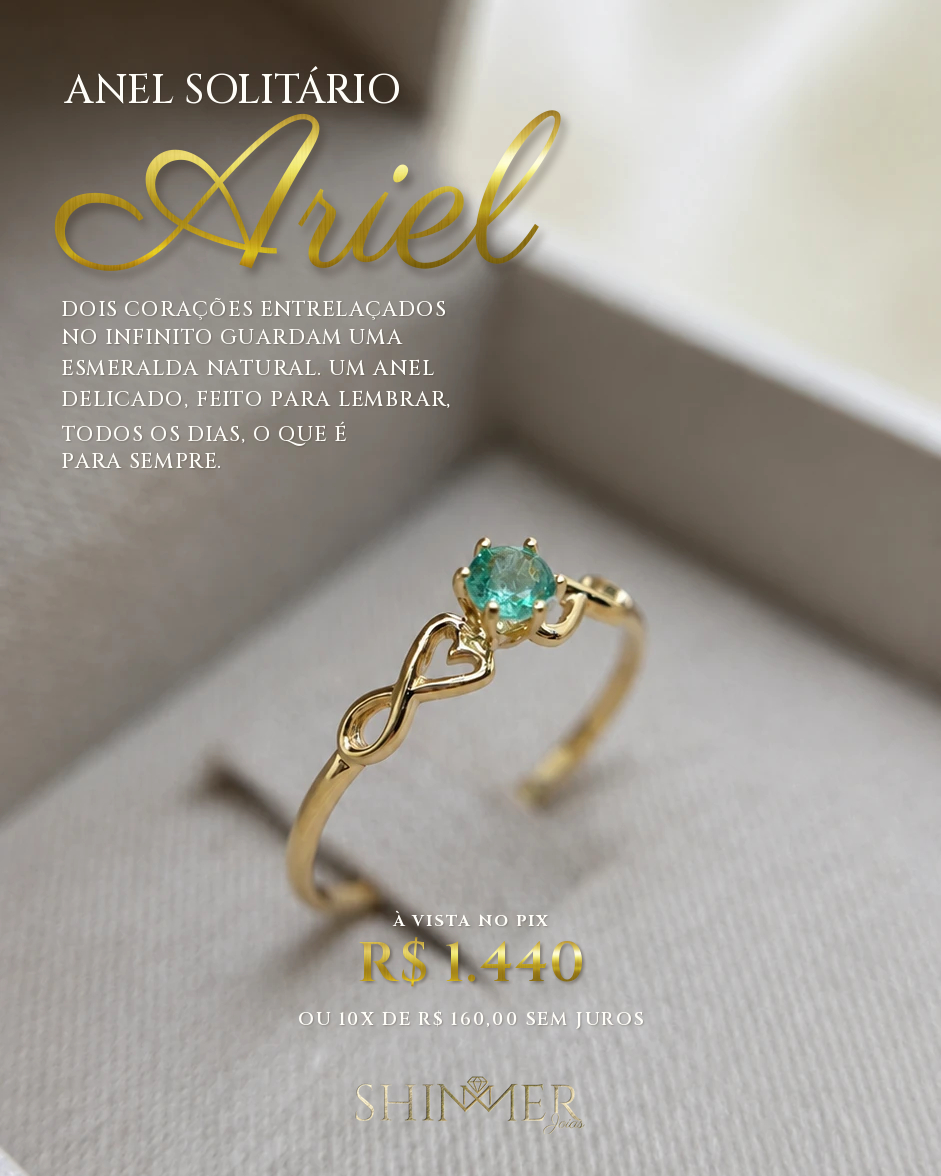
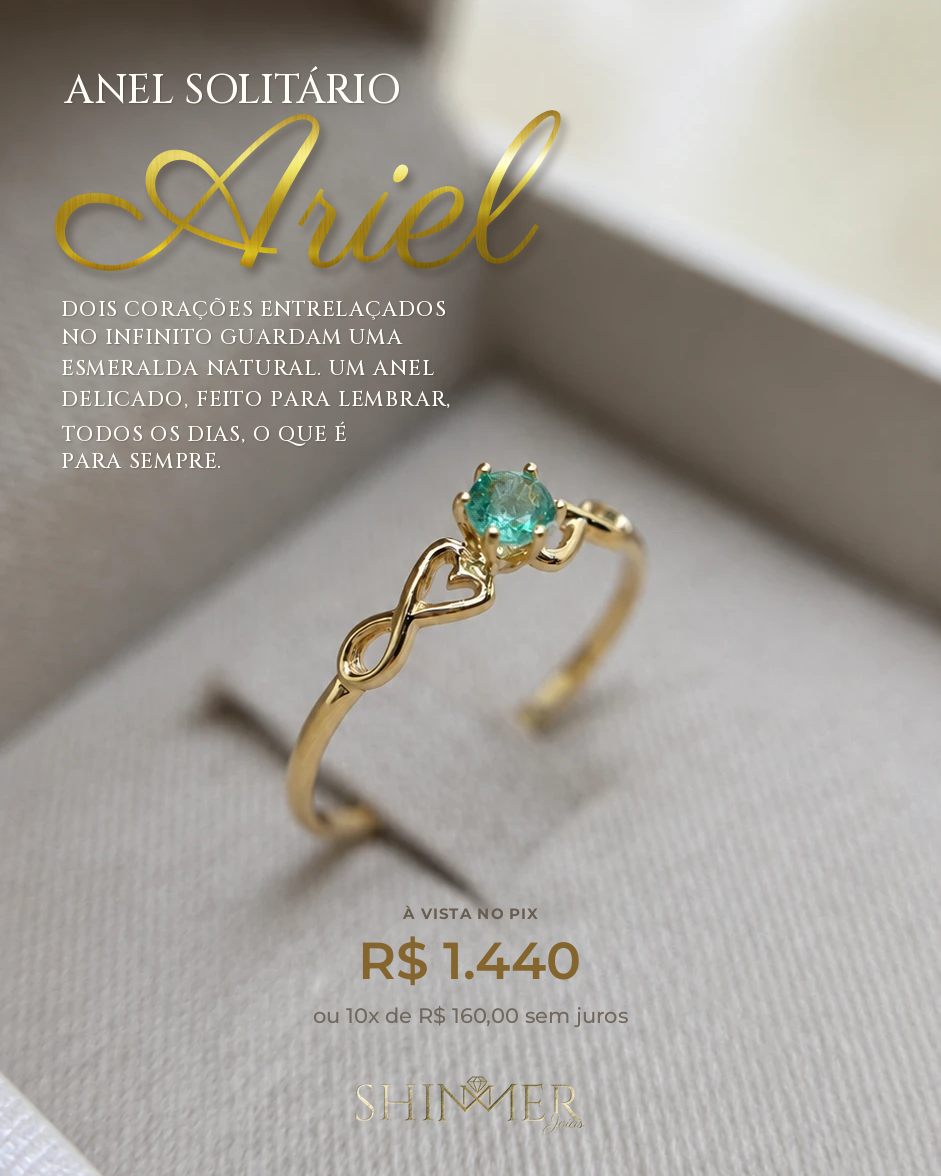
Bloco de preço no padrão do feed e posts do Ariel corrigidos
Claude-Session: https://claude.ai/code/session_01RLP9fKwVsDi588D8MrznBA

diff --git a/shimmer_style.py b/shimmer_style.py
@@ -170,3 +170,41 @@ def bottom_fade(img, start, color=(250, 248, 244), strength=0.96):
     lay = Image.new('RGBA', (W, H), color + (0,))
     lay.putalpha(Image.fromarray((np.broadcast_to(a, (H, W)) * 255).astype(np.uint8)))
     img.alpha_composite(lay)
+
+
+# ---- price block, as on the feed (Solitário Clássico post) ----
+PRICE_COLOR = (132, 101, 46)     # solid brown-gold of "R$ 1.350"
+LABEL_COLOR = (104, 93, 80)      # "À VISTA NO PIX"
+PARCEL_COLOR = (112, 103, 93)    # "ou 10x de ... sem juros"
+SPEC_COLOR = (164, 140, 104)     # spec line in Cinzel
+
+
+def sans(size, wght):
+    f = ImageFont.truetype(S + 'fonts/Montserrat.ttf', size)
+    f.set_variation_by_axes([wght])
+    return f
+
+
+def solid_text(text, fnt, color, tracking=0):
+    m = _mask(text, fnt, tracking)
+    f = Image.new('RGBA', m.size, color + (0,)); f.putalpha(m)
+    return f, m.getbbox()
+
+
+def spec_line(img, text, x, y, size, anchor='left'):
+    lay = solid_text(text, caps_font(size, 600), SPEC_COLOR, 2)
+    paste(img, lay, x, y, anchor=anchor)
+    return y + ink_size(lay)[1]
+
+
+def price_block(img, x, y, price, parcel, size=68, anchor='left', label='À VISTA NO PIX'):
+    """À VISTA NO PIX (small bold sans) / R$ price (sans semibold, solid brown-gold) / ou 10x ... (sans)."""
+    lab = solid_text(label, sans(round(size * 0.29), 700), LABEL_COLOR, 1)
+    paste(img, lab, x, y, anchor=anchor)
+    y += ink_size(lab)[1] + round(size * 0.30)
+    pr = solid_text(price, sans(size, 600), PRICE_COLOR)
+    paste(img, pr, x + (round(size * 0.02) if anchor == 'left' else 0), y, anchor=anchor)
+    y += ink_size(pr)[1] + round(size * 0.36)
+    pc = solid_text(parcel, sans(round(size * 0.40), 500), PARCEL_COLOR)
+    paste(img, pc, x + (round(size * 0.03) if anchor == 'left' else 0), y, anchor=anchor)
+    return y + ink_size(pc)[1]

diff --git a/IDENTIDADE-SHIMMER.md b/IDENTIDADE-SHIMMER.md
@@ -15,7 +15,12 @@ Implementado em `shimmer_style.py`.
   - Exemplos: "ANEL SOLITÁRIO", "PAR DE".
   - A sombra é mínima, só para separar do fundo.
 - **Palavra de destaque (nome da peça):** Parisienne, preenchida com a textura dourada da marca.
-- **Preço:** Cinzel com a textura dourada. Nunca em cursiva, porque números precisam ser lidos rápido.
+- **Bloco de preço (padrão do feed, ref. post do Clássico):**
+  - "À VISTA NO PIX": letra sem serifa (Montserrat), grossa, pequena, cor (104, 93, 80).
+  - **"R$ 1.440"**: Montserrat semibold, cor sólida marrom-dourada (132, 101, 46), sem textura.
+  - "ou 10x de R$ 160,00 sem juros": Montserrat, minúsculas, cor (112, 103, 93).
+  - Linha de detalhes em Cinzel pequena, bege-dourada (164, 140, 104); mais escura (132, 101, 46) quando não houver degradê atrás.
+  - Nunca em cursiva. Conferir sempre as contas (PIX = valor − 10%; parcela = valor ÷ 10).
 - **Números:** sempre retos (algarismos alinhados).
 
 ## Textura dourada
